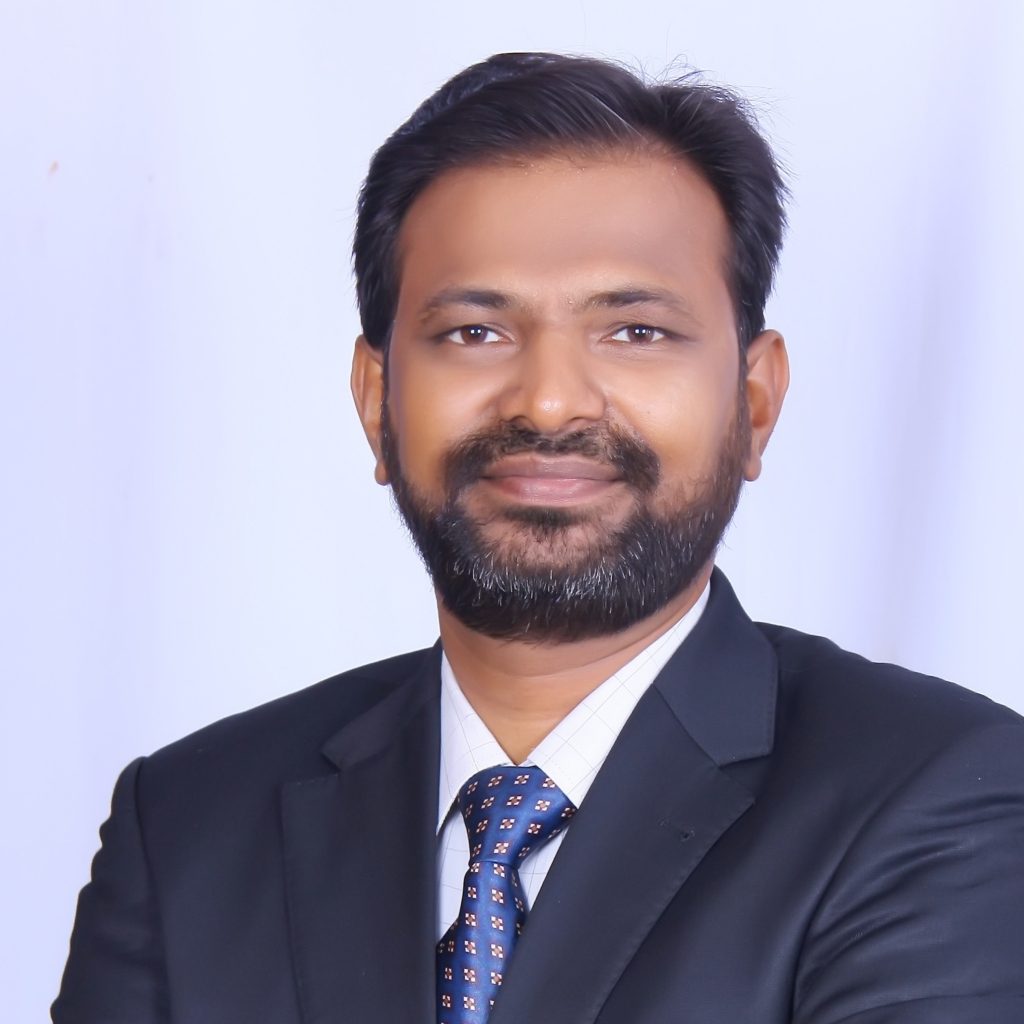
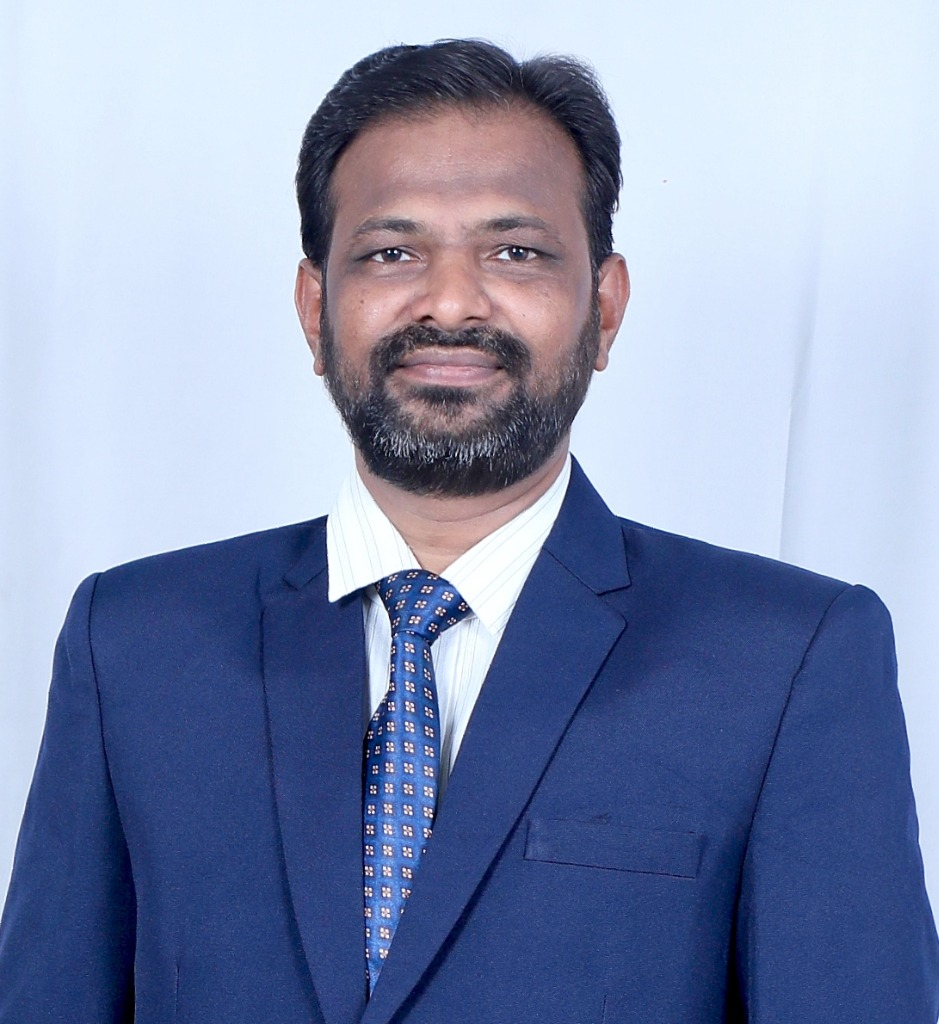
feat(founder): update portrait photo and streamline founder profile card

diff --git a/src/app/page.js b/src/app/page.js
@@ -70,9 +70,6 @@ export default function HomePage() {
               Meet Our Founder
             </div>
             <h2 className="hdg-oneline">The Person Behind Chamak Padhai Se</h2>
-            <p style={{ maxWidth: "68ch", margin: "14px auto 0", color: "var(--ink-600)", fontSize: "1.02rem" }}>
-              From overcoming childhood adversity and child labour to receiving India&apos;s highest national youth honors from the President of India.
-            </p>
           </div>
 
           {/* Founder Profile Card with Photo, Title & Awards */}
@@ -97,13 +94,6 @@ export default function HomePage() {
               <div className="founder-hero-card__tag">National Awardee &middot; Academician &middot; Social Reformer</div>
               <h3 className="founder-hero-card__name">Dr. Mohammad Azam Ali</h3>
               <p className="founder-hero-card__degrees">M.A., M.Ed., Ph.D. in English (Kakatiya University)</p>
-              <p className="founder-hero-card__role">
-                Assistant Professor of English &middot; Head of Department &middot; Chairperson, Board of Studies
-              </p>
-
-              <p className="founder-hero-card__bio">
-                Born into a poor working-class family in rural Telangana and once forced into child labour, Dr. Mohammad Azam Ali triumphed over extreme hardship through sheer determination and the power of education. He founded <strong>Chamak Foundation (Chamak Padhai Se)</strong> to ensure that every disadvantaged child receives the mentorship, scholarships, and opportunities needed to shine.
-              </p>
 
               {/* Founder Titles & Awards Grid */}
               <div className="founder-hero-awards">
